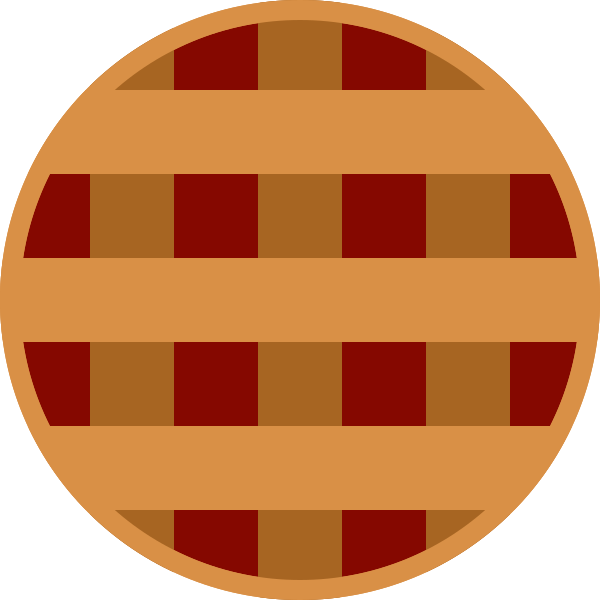
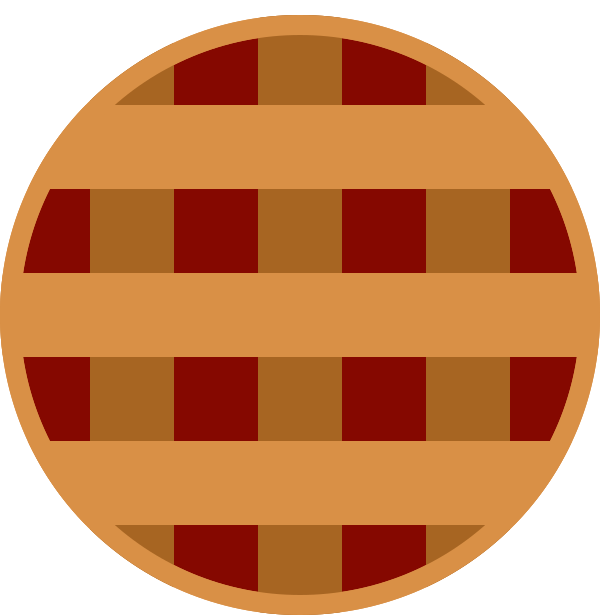
fully working order form

diff --git a/home/templates/home/index.html b/home/templates/home/index.html
@@ -31,14 +31,14 @@
   <div id="main" class="container">
     <div class="row">
       <div class="column">
-        <div class="cell">
+        <div class="cell blob">
           <h2>Menu</h2>
         </div>
       </div>
     </div>
     <div class="row">
       <div class="twelve columns">
-        <div class="cell">
+        <div class="cell blob">
           <h3>Pies</h3>
 
           <ul>
@@ -55,7 +55,7 @@
         </div>
       </div>
       <div class="twelve columns">
-        <div class="cell">
+        <div class="cell blob">
           <h3>Macarons</h3>
           <ul>
             <li><span>1 order (25 cookies)</span><span></span><span>$25</span></li>
@@ -78,26 +78,82 @@
             <li>Candied Walnut</li>
             <li>Candied Pecan</li>
           </ul>
-          
+
           <h3>Toppings</h3>
           <ul class="inline">
             <li>Chocolate drizzle</li>
           </ul>
-          
+
         </div>
-        
+
       </div>
     </div>
     <div class="row">
       <div class="column">
-        <div class="cell">
-          <h2>Orders</h2>
-          <p>To place an order, send an email to orders@ellisbakeshop.com</p>
-          <p>Please include your name, phone number, and a list items you would like to order.</p>
+        <div class="cell blob">
+          <h2>Order Form</h2>
+          <form id="orderform" action="/placeorder" method="post" style="margin-bottom:0px;">
+            {% csrf_token %}
+
+              <div class="row">
+                  <div class="six columns">
+                      <div class="cell">
+                          <p>
+                              <label for="name">Your Name:</label>
+                              <input style="width:100%; margin-bottom:0px;" type="text" id="name" name="name"
+                                     placeholder="Firstname Lastname" required/>
+                          </p>
+                      </div>
+                  </div>
+                  <div class="six columns">
+                      <div class="cell">
+                          <p>
+                              <label for="email">Your Email:</label>
+                              <input style="width:100%; margin-bottom:0px;" type="email" id="email" name="email"
+                                     placeholder="youremail@website.com" required autocomplete="email"/>
+                          </p>
+                      </div>
+                  </div>
+              </div>
+              <p>
+              <label for="order">Your Order:</label>
+              <textarea style="width:100%;height:200px;margin-bottom:0px;" id="order" name="order" placeholder="Please include:&#10;&#11;A list of the items you would like to order&#10;&#11;Your desired pickup date&#10;&#11;Any other information you would like" required></textarea>
+            </p>
+            <button type="submit">Place your Order</button>
+          </form>
         </div>
       </div>
     </div>
   </div>
+  <script>
+    let orderForm = document.getElementById('orderform');
+    orderForm.addEventListener('submit', (event) => {
+        // stops the POST call
+        event.preventDefault();
+
+        // disables all of the user input
+        let button = event.target.getElementsByTagName('button')[0];
+        button.setAttribute('disabled','');
+        button.style.backgroundColor='#7c7c7cb8';
+        button.innerText = "Submitting order...";
+        let items = Array.from(event.target.querySelectorAll('input,textarea'));
+        items.forEach(x => x.setAttribute('readonly',''));
+
+        // runs the POST call
+        fetch(event.target.action, {
+            method: 'POST',
+            body: new URLSearchParams(new FormData(event.target))
+        }).then((response) => {
+            if (!response.ok) {
+                button.innerText = "Error submitting order!";
+            } else {
+                button.innerText = "Order submitted!";
+                button.style.backgroundColor = '#01ad16b8';
+                button.style.color = '#000';
+            }
+        });
+    });
+  </script>
 </body>
 
 </html>

diff --git a/home/static/home/css/stylesheet.css b/home/static/home/css/stylesheet.css
@@ -13,8 +13,7 @@ body {
   background-color: #a76522;
   background-image:url('../bake_shop_header.png?v=1');
   background-repeat: no-repeat;
-  background-position: center;
-  background-position-y: 15px;
+  background-position: top center;
   background-size: 600px;
 }
 
@@ -50,7 +49,7 @@ div#header {
   width: 100%;
 }
 
-div.cell {
+.blob {
   border-radius: 1em;
   background-color: rgba(255, 221, 187, 0.925);
   padding: 1em;
@@ -76,4 +75,11 @@ a {
   top:5px;
   right:5px;
   z-index:2;
+}
+
+form button {
+    width:100%;
+    background-color:#850800b8;
+    color:#fff;
+    margin-bottom:0px;
 }

diff --git a/home/views.py b/home/views.py
@@ -1,6 +1,40 @@
+from django.core.exceptions import ValidationError
+from django.core.mail import send_mail, BadHeaderError
+from django.core.validators import validate_email
+from django.http import HttpResponse
 from django.shortcuts import render
+import re
+
+from ellisbakeshop.settings import EMAIL_HOST_USER
 
 
 # Create your views here.
 def index(request):
     return render(request, 'home/index.html', context={})
+
+
+def placeorder(request):
+    email_address = request.POST.get('email')
+    try:
+        validate_email(email_address)
+    except ValidationError as e:
+        return HttpResponse(status=500)
+
+    only_numbers_and_letters_regex = '[^a-zA-Z0-9 ]'
+    name = request.POST.get('name')
+    name = re.sub(only_numbers_and_letters_regex, '_', name, )
+
+    # if I'm reading this right, I don't have to worry about header injection in the message?
+    # https://docs.djangoproject.com/en/4.1/topics/email/#preventing-header-injection
+    message = request.POST.get('order')
+    message = "This is a copy of the order you placed on Ellis Bake Shop for your records," \
+              + " we will reply separately with a confirmation.\n\n" + message
+
+    try:
+        send_mail(subject='Ellis Bake Shop Order Form: ' + name,
+                  message=message,
+                  from_email=EMAIL_HOST_USER,
+                  recipient_list=[email_address, EMAIL_HOST_USER], fail_silently=False, )
+    except BadHeaderError:
+        return HttpResponse(status=500)
+    return HttpResponse(status=204)

diff --git a/ellisbakeshop/settings.py b/ellisbakeshop/settings.py
@@ -45,7 +45,7 @@ secret_file = open(secret_path, 'r')
 SECRET_KEY = secret_file.readline()
 
 # SECURITY WARNING: don't run with debug turned on in production!
-DEBUG = True
+DEBUG = False
 
 ALLOWED_HOSTS = ['localhost', 'ellisbakeshop.com']
 
@@ -94,6 +94,29 @@ TEMPLATES = [
 
 WSGI_APPLICATION = 'ellisbakeshop.wsgi.application'
 
+# email
+EMAIL_BACKEND = 'django.core.mail.backends.smtp.EmailBackend'
+EMAIL_HOST = 'smtp.gmail.com'
+EMAIL_PORT = 587
+EMAIL_USE_TLS = True
+
+home = Path.home()
+email_path = home / USER_FOLDER_NAME / 'email-credentials.txt'
+if not os.path.isfile(email_path):
+    email_file = open(email_path, 'w')
+    email_file.write("EMAIL_HOST_USER=" + "\n")
+    email_file.write("EMAIL_HOST_PASSWORD=" + "\n")
+    email_file.close()
+email_file = open(email_path, 'r')
+for line in email_file.readlines():
+    if line.startswith("EMAIL_HOST_USER="):
+        value = line[len("EMAIL_HOST_USER="):].strip()
+        if value:
+            EMAIL_HOST_USER = value
+    elif line.startswith("EMAIL_HOST_PASSWORD="):
+        value = line[len("EMAIL_HOST_PASSWORD="):].strip()
+        if value:
+            EMAIL_HOST_PASSWORD = value
 
 # Database
 # https://docs.djangoproject.com/en/4.1/ref/settings/#databases

diff --git a/server.py b/server.py
@@ -1,6 +1,6 @@
 from waitress import serve
 
-from elliscodedotcom.wsgi import application
+from ellisbakeshop.wsgi import application
 
 if __name__ == '__main__':
-    serve(application, port='8001')
+    serve(application, port='8002')

diff --git a/home/urls.py b/home/urls.py
@@ -4,4 +4,5 @@ from . import views
 
 urlpatterns = [
     path('', views.index, name='index'),
+    path('placeorder', views.placeorder, name='placeorder'),
 ]
